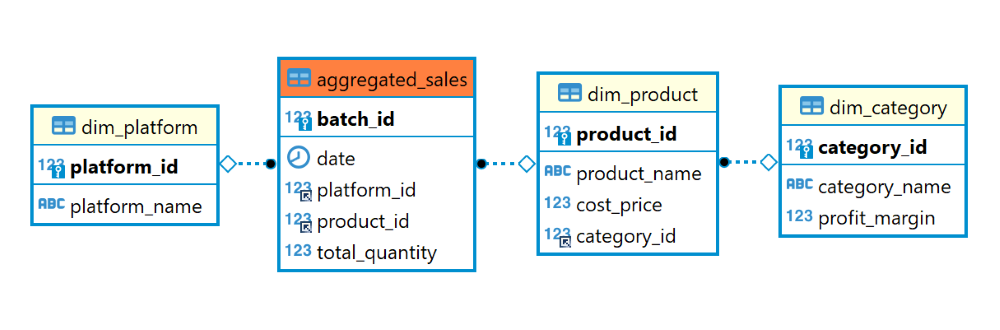
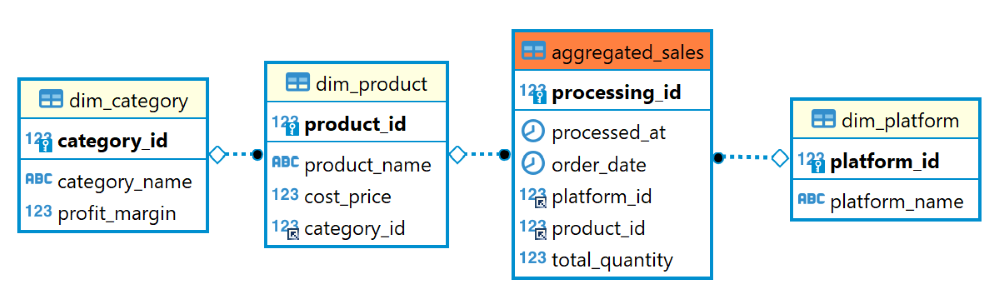
edit sdp part 2

Changed region(s): [[0.0, 0.09, 0.992, 0.96]]

diff --git a/articles/streaming-data-processing-part-2.md b/articles/streaming-data-processing-part-2.md
@@ -1,6 +1,6 @@
 ---
-title: Streaming Data Processing - Building an OLTP, OLAP and Sales Dashboard with Open Source Stacks | OLTP and OLAP Databases Setup (Part 2)
-post_excerpt: This project showcases the implementation of a streaming data processing pipeline using open-source technologies (Kafka, Spark Streaming, Cassandra, and MySQL). In the second part of the article, we will walk through the setup of OLTP and OLAP databases.
+title: Building a Streaming Data Pipeline with Open Source Stacks | OLTP and OLAP Databases Setup (Part 2)
+post_excerpt: In the second part of the article, we will walk through the design and implementation of OLTP and OLAP databases using Cassandra and MySQL respectively.
 taxonomy:
   category:
     - knowledge
@@ -62,9 +62,11 @@ CREATE TABLE sales.orders (
 This table will be part of our OLTP database, which will store transactional data (raw order data) for our application. The orders table will have several columns including `order_id`, `created_at`, `platform_id`, `product_id`, `quantity`, `customer_id`, and `payment_method`. The order_id column will serve as the primary key for the table, ensuring uniqueness for each order. 
 
 To illustrate, here is an example of how the row in the orders table will look like:
-| order_id | created_at | product_id | platform_id | quantity |
-| - | - | - | - | - |
-| 1 | '2023-06-06T13:52:00' | 2 | 3 | 10 | 
+```{cql}
+| order_id |       created_at        | customer_id | payment_method | platform_id | product_id | quantity |
+|----------|-------------------------|-------------|----------------|-------------|------------|----------|
+|    84    | 2023-06-15 13:55:19.000 |     30      |   credit card  |      3      |     8      |    9     |
+```
 
 ### OLAP Database Design and Implementation
 
@@ -83,7 +85,7 @@ CREATE DATABASE sales;
 We will create a data model consisting of a fact table called `aggregated_sales` and three dimension tables: `dim_platform`, `dim_product`, and `dim_category`. The entity relationship diagram (ERD) for the data model is shown below:
 ![Sales ERD](/_images/sdp_sales_erd.png)
 
-The `aggregated_sales` table will store aggregated sales data with the following attributes: `batch_id`, `date`, `platform_id`, `product_id`, and `total_quantity`. The `batch_id` serves as the primary key for this table. It also has foreign keys `platform_id` and `product_id` that reference the primary keys of the `dim_platform` and `dim_product` tables, respectively. 
+The `aggregated_sales` table will store aggregated sales data in a microbatch fashion. It cosist of the following attributes: `processing_id`, `processed_at`, `order_date`, `platform_id`, `product_id`, and `total_quantity`. The `processing_id` serves as the primary key for this table. The `processed_at` column stores the timestamp when the microbatch is processed. The `order_date` column stores the date when the orders are placed. It also has foreign keys `platform_id` and `product_id` that reference the primary keys of the `dim_platform` and `dim_product` tables, respectively. The `total quantity` column stores the total quantity of products sold for a given microbatch. Since the data is aggregated in microbatches, there can be multiple rows with the same `order_date`, `platform_id`, and `product_id`, but different `processing_id`, `processed_at`, and `total_quantity` values.
 
 The `dim_platform` table represents the dimensions related to platforms and has two attributes: `platform_id` and `platform_name`. The `platform_id` serves as the primary key in this table.
 
@@ -117,12 +119,13 @@ CREATE TABLE dim_product (
   );
 
 CREATE TABLE aggregated_sales (
-  batch_id INT AUTO_INCREMENT,
-  date DATE,
+  processing_id INT AUTO_INCREMENT,
+  processed_at TIMESTAMP,
+  order_date DATE,
   platform_id INT,
   product_id INT,
   total_quantity INT,
-  PRIMARY KEY (batch_id),
+  PRIMARY KEY (processing_id),
   FOREIGN KEY (platform_id) REFERENCES dim_platform (platform_id),
   FOREIGN KEY (product_id) REFERENCES dim_product (product_id)
   );
@@ -169,6 +172,16 @@ INSERT INTO dim_product (product_id, product_name, cost_price, category_id)
 ```
 
 Note that the profit margin is represented as a decimal value relative to the cost price. For instance, consider a Diamond Ring with a cost price of $1000 and a profit margin of 0.25 (based on its category). This means that the profit is calculated as 0.25 times the cost price, resulting in $250. And the selling price of the Diamond Ring is determined by adding the cost price and profit together, which is $1250 in this case.
+
+Now you can optionally stop the Docker containers for all services by executing the following command:
+```{bash}
+docker compose stop
+```
+
+If you wish to restart the Docker containers at a later time, you can use the following command:
+```{bash}
+docker compose up -d
+```
 
 ### Conclusion
 
